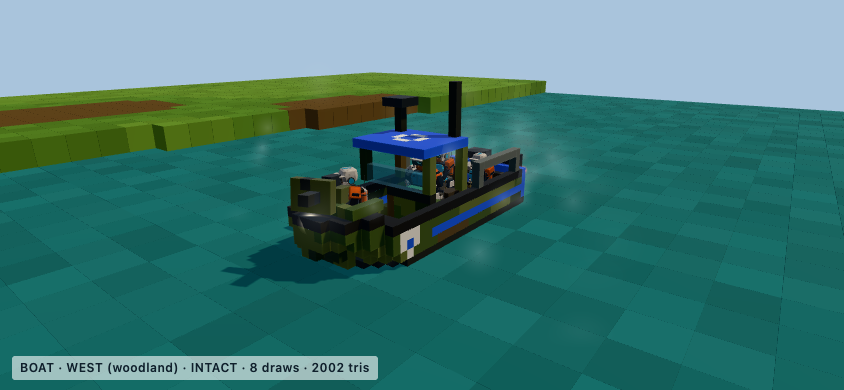
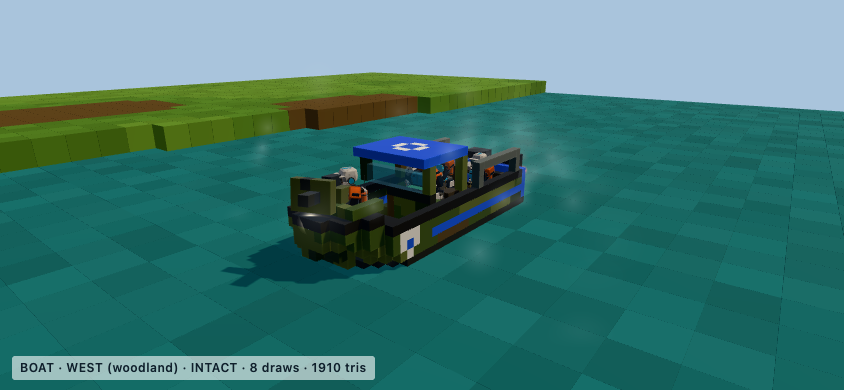
Conquest boat review: unmannable patrol bookings, bridge clearance, narrows
- patrolCrewInReach counted bots booked on a squad ride, which planCrews then
  skips: the boat was booked with nobody to man it and took the jet's slot.
- The boat model's roof (2.6 m) and mast (3.8 m) poked through the Iron
  Bridge deck (2.43 m above a floating hull); the canopy is now lower and
  carries no mast (BOAT_TOP 2.4), and a test checks the lowest deck.
- Bot helmsmen swung U-turns into the piers by the Iron Bridge; in the
  narrows they now pivot, or back onto a close waypoint astern.
- Stuck recoveries carried over between legs, so a long patrol could reach
  MAX_RECOVERIES and abandon the boat mid-river; each leg starts fresh.
- A recalled crew got out 10-12 m from the pad, in the river: moorRadius 7.
- Docs and comments claimed the patrol only uses headroom above the budget;
  it ranks before the jet and can take its budget slot. Tests now cover the
  sortie/rest cycle, the recall, and the cap (only a recall may exceed it).
- Recaptured the boat screenshots (muted CDP).

Changed region(s): [[0.4005, 0.1846, 0.5545, 0.4308], [0.3697, 0.9231, 0.4621, 0.9538]]

diff --git a/server/bot-boat-driving.js b/server/bot-boat-driving.js
@@ -1,9 +1,9 @@
 // River patrol boats for Conquest bots (docs/conquest.md, Patrol boat).
 //
 // The commander books one boat per team as a river patrol (driver and bow
-// gunner) in the headroom between its crew budget and the ceil(bots / 3) cap
-// once the team fields BOAT_PATROL.minTeamBots bots (riverPatrolSlots and
-// BotCommander.planCrews). The driver steers along the map's boat lane
+// gunner, ranked after the attack helicopter and before the jet) when both
+// seats fit under the ceil(bots / 3) crew cap, once the team fields
+// BOAT_PATROL.minTeamBots bots (riverPatrolSlots and BotCommander.planCrews). The driver steers along the map's boat lane
 // (mapMeta.conquest.waterways) to a station beside the river crossing
 // nearest the team's focus flag, holds there bow toward the
 // crossing so the gunner's .50 covers it, and moves to the station on the
@@ -17,8 +17,12 @@ import { vehicleMaxHp } from '../shared/vehicles.js';
 export const BOAT_PATROL = Object.freeze({
   /** A team with fewer bots keeps every bot on land. */
   minTeamBots: 6,
-  /** A recalled boat this close to its mooring is home: the crew gets out (m). */
-  moorRadius: 12,
+  /**
+   * A recalled boat this close to its mooring is home: the crew gets out (m).
+   * Just past the `arrive` radius the helmsman brakes in, so the crew steps
+   * out at the pad (a short jump from the bank), not 10 m out in the river.
+   */
+  moorRadius: 7,
   /** A living bot farther than this from the boat does not walk (or swim) to it. */
   walkMax: 30,
   /** Commander priorities of the boat seats: after the attack helicopter, before the jet. */
@@ -35,6 +39,13 @@ export const BOAT_PATROL = Object.freeze({
   arrive: 6, faceMs: 3500,
   /** Cruise on the open lane, through a narrows (the Iron Bridge arch) and close to the station, m/s. */
   cruise: 15, narrows: 6, approach: 8,
+  /**
+   * In the narrows (a bridge within 20 m) a helmsman whose waypoint lies more
+   * than `pivotError` rad off the bow stops and pivots instead of turning under
+   * way, or backs onto it when it lies astern closer than `narrowsReverse` m
+   * (under the arch there is no room to pivot either).
+   */
+  pivotError: 1.2, narrowsReverse: 16,
   /** Hull share that sends the boat home to its mooring, and the share that sends it back out. */
   retreatHp: 0.35, returnHp: 0.6,
   /**
@@ -135,11 +146,14 @@ export function laneDistance(lane, p) {
  * Commander slots of the river patrol: { slots, recall }. `slots` is the
  * team's live boat already manned by a bot, else the one moored nearest the
  * focus flag: its driver, then its bow gunner, at priorities after the attack
- * helicopter, while the focus flag lies within BOAT_PATROL.focusReach of the lane. The commander books them only in the headroom between the crew
- * budget and the ceil(teamBots / 3) cap, so on Frontier (at most eight bots a
- * side) the boat sails while the tank or the helicopter is down. `recall` is a
- * bot-crewed boat out on the river, for when the patrol is not booked: its
- * crew sails home and gets out at the mooring, never mid-river.
+ * helicopter and before the jet, while the focus flag lies within
+ * BOAT_PATROL.focusReach of the lane. The commander books both seats or
+ * neither, only while they fit under the ceil(teamBots / 3) cap: on Frontier
+ * (at most eight bots a side: budget 2, cap 3) the boat sails while the tank
+ * or the helicopter is down, and then takes the budget slot the jet would get.
+ * `recall` is a bot-crewed boat out on the river, for when the patrol is not
+ * booked: its crew sails home and gets out at the mooring, never mid-river
+ * (the recall may run past the cap while it lasts).
  */
 export function riverPatrolSlots(game, hulls, teamBots, focus, hullSeatIds, isBot) {
   const none = { slots: [], recall: [] };
@@ -161,14 +175,20 @@ export function riverPatrolSlots(game, hulls, teamBots, focus, hullSeatIds, isBo
   return { slots: pick ? crew(pick, false) : [], recall };
 }
 
-/** Lane route state of a boat driver (reused while the target is unchanged). */
+/**
+ * Lane route state of a boat driver (reused while the target is unchanged).
+ * Like a ground hull's route, each leg starts with no stuck recoveries: the
+ * watchdog's MAX_RECOVERIES bail-out (abandon the hull, crew out) is for a
+ * hull boxed in on one leg, not the sum of every scrape over a long patrol,
+ * which would strand the boat mid-river and swim its crew ashore.
+ */
 function routeState(driving, br, v, lane, target, now) {
   const key = `boat:${Math.round(target.x)},${Math.round(target.z)}`;
   let state = driving.drivers.get(br.id);
   if (!state || state.vehicle !== v || state.key !== key) {
     const keep = state?.vehicle === v ? state : null;
     state = { vehicle: v, key, destination: target, points: laneRoute(lane, laneProgress(lane, v), laneProgress(lane, target)).concat([{ ...target }]),
-      index: 0, watchAt: now, watchX: v.x, watchZ: v.z, watchYaw: v.yaw, recoveries: keep?.recoveries ?? 0, reverseUntil: 0,
+      index: 0, watchAt: now, watchX: v.x, watchZ: v.z, watchYaw: v.yaw, recoveries: 0, reverseUntil: 0,
       probeAt: 0, detour: null, patrol: keep?.patrol ?? null };
     driving.drivers.set(br.id, state);
   }
@@ -212,7 +232,7 @@ export function boatPatrol(driving, br, p, v, assignment, now, inp) {
   // Slow through the narrows (the arches of a bridge within 20 m) and on the approach.
   const narrows = (driving.game.mapMeta?.conquest?.crossings ?? []).some(c => c.kind === 'bridge' && flat(c, v) < 20);
   const cruise = narrows ? BOAT_PATROL.narrows : toGo < 30 ? BOAT_PATROL.approach : BOAT_PATROL.cruise;
-  const remaining = driving.follow(br, v, state, now, inp, { arrive: BOAT_PATROL.arrive, cruise });
+  const remaining = driving.follow(br, v, state, now, inp, { arrive: BOAT_PATROL.arrive, cruise, narrows });
   if (remaining < BOAT_PATROL.arrive) {
     if (!patrol.retreat && !patrol.settleAt) {
       patrol.settleAt = now;

diff --git a/server/bot-commander.js b/server/bot-commander.js
@@ -553,9 +553,11 @@ export class BotCommander {
    * (only with >= 6 bots) > a second tank > helicopter gunner > tank commander.
    * The budget is ceil(teamBots / 4), inside the spec's ceil(teamBots / 3)
    * cap, so most of the team stays on foot around the flags. The river patrol
-   * boat (driver and gunner, priority after the helicopter) only sails in the
-   * headroom between the budget and the cap, in sorties of BOAT_PATROL.sortieMs
-   * with BOAT_PATROL.restMs at the mooring between them.
+   * boat (driver and gunner, after the helicopter and before the jet) is booked
+   * with both seats or not at all, only while they fit under the cap: it may
+   * take the crew count one past the budget, and the crews ranked after it get
+   * what budget is left. It sails in sorties of BOAT_PATROL.sortieMs with
+   * BOAT_PATROL.restMs at the mooring between them.
    */
   planCrews(ts, view, now) {
     const team = ts.team, brains = this.teamBrains(team);
@@ -585,7 +587,7 @@ export class BotCommander {
     push(hulls.filter(v => v.type === 'helicopter'), v => hullSeatIds(v).gunner, 4);
     push(hulls.filter(v => v.type === 'tank' || v.type === 'jeep_at'), v => hullSeatIds(v).gunner, 5);
     // The river patrol (server/bot-boat-driving.js): a two-bot boat crew that
-    // sails in the headroom between the budget and the ceil(teamBots / 3) cap.
+    // must fit under the ceil(teamBots / 3) cap (it may run past the budget).
     const cap = Math.ceil(brains.length / 3);
     const patrol = riverPatrolSlots(this.game, hulls, brains.length, this.focusFlag(ts), hullSeatIds, id => this.isBot(id));
     // Sortie duty cycle (BOAT_PATROL.sortieMs / restMs): between sorties the boat rests at its mooring.
@@ -668,15 +670,21 @@ export class BotCommander {
     ts.crewBudget = budget;
   }
 
-  /** Two bots that can man the patrol boat now: already aboard or booked, dead (they deploy aboard) or a short walk away. */
+  /**
+   * Two bots that can man the patrol boat now: already aboard or booked, dead
+   * (they deploy aboard) or a short walk away. A bot booked on a crew, a hitch
+   * or a squad ride is not free: the seat assignment in planCrews skips it too,
+   * so counting it would book an unmannable boat in the jet's place.
+   */
   patrolCrewInReach(ts, brains, v, view) {
     let count = 0;
+    const riding = new Set([...ts.transits.values()].flatMap(t => [...t.seats.keys()].map(String)));
     for (const br of brains) {
       const id = br.id, p = this.game.entities.get(id);
       if (!p) continue;
       const booked = ts.crews.get(String(id));
       if (p.vehicleId === v.id || booked?.vehicleId === v.id) count++;
-      else if (booked || ts.hitches.has(String(id))) continue;
+      else if (booked || ts.hitches.has(String(id)) || riding.has(String(id))) continue;
       else if (p.state !== 'alive' ? !!view.deployOptions : !p.vehicleId && flat(p, v) <= BOAT_PATROL.walkMax) count++;
       if (count >= 2) return true;
     }

diff --git a/public/js/vehicles/models/boat.js b/public/js/vehicles/models/boat.js
@@ -13,6 +13,8 @@ import { blueprint, createKit, buildSeatAnchors, buildMounts, lightAnchor, finis
 /** Outboard motor positions (x) and the transom face (z). */
 export const BOAT_OUTBOARDS = Object.freeze([-0.5, 0.5]);
 export const BOAT_TRANSOM_Z = 3.0;
+/** Highest point of the model above the keel (the canopy roof), m. */
+export const BOAT_TOP = 2.4;
 const BOW_Z = -3.4, FOREDECK_Z = -2.0, FLOOR_TOP = 0.6;
 const round = v => Math.round(v * 5) / 5;
 
@@ -85,24 +87,23 @@ function buildParts() {
   }
   hull.userData.priority = { ammo: 40, jerrycan: 40, rail: 30 };
 
-  // Canopy: windscreen, roof on four posts (its top is the air recognition
-  // panel with a roundel), the radar mast and a whip antenna. From the
-  // driver's first-person seat it folds away (model.firstPersonHidden).
+  // Canopy: windscreen and a low roof on four posts (its top is the air
+  // recognition panel with a roundel). Nothing stands above BOAT_TOP: afloat,
+  // the boat clears the Iron Bridge deck (underside 2.43 m over the hull's
+  // feet), so it carries no mast or whip antenna. From the driver's
+  // first-person seat the canopy folds away (model.firstPersonHidden).
   const canopy = new VoxelPart('boat-canopy');
   canopy.box([-1.0, 1.6, -1.0], [-0.8, 2.0, -0.8], 'paint', { tag: 'windscreen' });
   canopy.box([0.8, 1.6, -1.0], [1.0, 2.0, -0.8], 'paint', { tag: 'windscreen' });
   canopy.box([-0.8, 1.6, -1.0], [0.8, 2.0, -0.8], 'glass', { tag: 'windscreen' });
   for (const x of [-1.0, 0.8]) {
-    canopy.box([x, 2.0, -1.0], [x + 0.2, 2.4, -0.8], 'paint', { tag: 'roof' });
-    canopy.box([x, 1.4, 0.2], [x + 0.2, 2.4, 0.4], 'paint', { tag: 'roof' });
+    canopy.box([x, 2.0, -1.0], [x + 0.2, 2.2, -0.8], 'paint', { tag: 'roof' });
+    canopy.box([x, 1.4, 0.2], [x + 0.2, 2.2, 0.4], 'paint', { tag: 'roof' });
   }
-  canopy.box([-1.0, 2.4, -1.2], [1.0, 2.6, 0.4], 'panel', { tag: 'roof' });
-  canopy.skin([-1.0, 2.4, -1.2], [1.0, 2.6, 0.4], 'recog', { normal: [0, 1, 0], where: m => m === 'panel' });
-  canopy.roundel([0, 2.6, -0.4], 0.4, [0, 1, 0], { depth: 0.2 });
-  canopy.box([0.6, 2.6, 0.0], [0.8, 3.2, 0.2], 'dark', { tag: 'mast' });
-  canopy.box([0.4, 3.2, -0.2], [1.0, 3.4, 0.4], 'gunmetal', { tag: 'mast' });
-  canopy.box([-0.8, 2.6, 0.2], [-0.6, 3.8, 0.4], 'dark', { tag: 'antenna' });
-  canopy.userData.priority = { roof: 70, windscreen: 75, mast: 50, antenna: 20 };
+  canopy.box([-1.0, 2.2, -1.2], [1.0, BOAT_TOP, 0.4], 'panel', { tag: 'roof' });
+  canopy.skin([-1.0, 2.2, -1.2], [1.0, BOAT_TOP, 0.4], 'recog', { normal: [0, 1, 0], where: m => m === 'panel' });
+  canopy.roundel([0, BOAT_TOP, -0.4], 0.4, [0, 1, 0], { depth: 0.2 });
+  canopy.userData.priority = { roof: 70, windscreen: 75 };
 
   // Wheel on the console (spins with the steer input).
   const steering = new VoxelPart('boat-steering', { pivot: [round(dx), 1.5, -0.6] });

diff --git a/server/bot-vehicle-driving.js b/server/bot-vehicle-driving.js
@@ -27,7 +27,7 @@ import { mountSystem, seatWeapons } from './bot-vehicle-combat.js';
 import { kitOfPlayer } from './bot-commander.js';
 import { isCombinedArms } from '../shared/modes.js';
 import { navigationWaypoint } from './bot-navigation.js';
-import { boatPatrol } from './bot-boat-driving.js';
+import { BOAT_PATROL, boatPatrol } from './bot-boat-driving.js';
 
 const distance = (a, b) => Math.hypot(a.x - b.x, a.z - b.z);
 const wrap = a => Math.atan2(Math.sin(a), Math.cos(a));
@@ -384,7 +384,7 @@ export class ConquestVehicleDriving {
   }
 
   /** Drive along a route; returns the remaining distance to its end. */
-  follow(br, v, state, now, inp, { arrive = 6, cruise = null } = {}) {
+  follow(br, v, state, now, inp, { arrive = 6, cruise = null, narrows = false } = {}) {
     inp.vehicleThrottle = 0; inp.vehicleSteer = 0; inp.vehicleBrake = 1;
     const goal = state.points.at(-1);
     if (!goal) return 0;
@@ -427,8 +427,11 @@ export class ConquestVehicleDriving {
     const error = wrap(desiredYaw - v.yaw), d = distance(v, target);
     const next = state.detour ? (state.detour[1] ?? state.points[state.index]) : state.points[state.index + 1];
     const corner = next ? Math.abs(wrap(bearing(target, next) - desiredYaw)) : 0;
-    // Tanks and boats pivot onto a waypoint behind them; wheeled hulls back up to it.
-    const reverse = v.type !== 'tank' && v.type !== 'boat' && Math.abs(error) > 1.9 && d < 42;
+    // Tanks pivot onto a waypoint behind them; wheeled hulls back up to it. A
+    // boat turns under way on open water; in the narrows of a bridge it backs
+    // straight onto a close waypoint astern, or stops and pivots (below).
+    const reverse = v.type === 'boat' ? narrows && Math.abs(error) > 2 && d < BOAT_PATROL.narrowsReverse
+      : v.type !== 'tank' && Math.abs(error) > 1.9 && d < 42;
     const steeringError = reverse ? wrap(error + Math.PI) : error;
     const rules = VEHICLE_RULES[v.type];
     inp.vehicleSteer = clamp(-steeringError * (v.type === 'tank' ? 2 : 2.5) * (reverse ? -1 : 1), -1, 1);
@@ -436,6 +439,9 @@ export class ConquestVehicleDriving {
     if (Math.abs(steeringError) > 0.35) speed = Math.min(speed, v.type === 'tank' ? 5 : 6);
     if (corner > 0.4 && d < 24) speed = Math.min(speed, 5 + d * 0.2);
     if (v.type === 'tank' && Math.abs(error) > 0.6) speed = 0;
+    // A boat turning back in the narrows stops and pivots on its waterjet: a
+    // U-turn under way swings 6 m wide, into a pier or the bank by the arch.
+    if (v.type === 'boat' && narrows && !reverse && Math.abs(error) > BOAT_PATROL.pivotError) speed = 0;
     if (remaining < 40) speed = Math.min(speed, Math.max(3, remaining * 0.35));
     inp.vehicleBrake = Math.abs(v.speed) > speed + 1 ? 0.8 : 0;
     inp.vehicleThrottle = reverse ? -0.8 : speed / rules.speed;

diff --git a/docs/conquest.md b/docs/conquest.md
@@ -193,8 +193,8 @@ Like the RX-8: a jeep dies to one hit, a helicopter to three (air ×0.8), a tank
 - **Crashes.** A bank, pier or island hit head-on above max(8, 0.55 × 20) = 11 m/s costs up to a quarter of the hull at top speed (`WALL_CRASH_RULES.boat`: 25 %, a 25 % rebound). The boat pays at most once per second (`crashSeconds`), so a hull glancing back into the same bank pays once. Hull-on-hull crashes, runover and ram credit work as for ground hulls.
 - **Damage.** It has light armour like the jeep: the .50 bites in full, rifles only scratch it. A wreck doesn't burn on the surface. It sinks at 0.7 m/s, stern first and listing, settles on the river bed and respawns at its pad 20 s after it was lost.
 - **Crew exits.** Every seat is exposed. At a bank or a ford the ordinary exit search puts the crew ashore. In open water they drop in beside the hull at their seat's side (then the other side, the bow, the stern), feet 1.2 m under the surface (`boatSwimExit`), and swim.
-- **Bots** (`server/bot-boat-driving.js`, numbers in `BOAT_PATROL`). Boats are crewed only when a team has at least 6 bots and its focus flag lies within 80 m of the boat lane (`focusReach`: on Frontier only the Iron Bridge; B and D are 107 m off, A and E 145 m), and only in the headroom between the commander's crew budget (a quarter of the team's bots) and its cap (a third). A boat is crewed only when both the helmsman and the bow gunner (priorities 1.5 and 1.6) fit, with two bots in reach (aboard, already booked, dead and about to deploy aboard, or within 30 m). A team runs at most one boat crew: the boat a bot already sails, else the one moored nearest the focus flag. The helmsman follows the boat lane (`waterways`), slows to 6 m/s under the Iron Bridge arch and to 8 m/s on the approach, and holds a station 32 m up or down the lane from the crossing nearest the focus flag. The station lies outside the flag zone with the bow toward the crossing, and the helmsman moves between the two stations every 8–14 s. Below 35 % hp it runs back to its mooring until it is back over 60 %. A patrol is a sortie: after 70 s the boat rests at its mooring for 50 s (`sortieMs`, `restMs`) and the crew goes back to the flags on foot. When the commander no longer picks the boat (the sortie ended, the headroom closed or the focus moved off the river), the crew is recalled to the mooring first instead of bailing into the river. Boats never reverse toward a waypoint behind them. The bow gunner fights with the ordinary mounted combat; target choice treats a boat as a light hull with threat 1.5.
-- **Client.** `makeBoatModel` (`public/js/vehicles/models/boat.js`) has outboards that swivel with the steer, a turning helm wheel and a canopy that is hidden in first person. `VehicleView` uses the published attitude plus the swell and skips the ground fit and wreck tilt for boats. `VehicleFx` throws a wake behind the hull above 1.2 m/s and bow spray above 8 m/s (`_boatWake`). The helm camera looks along the hull. The HUD labels the boat PATROL BOAT.
+- **Bots** (`server/bot-boat-driving.js`, numbers in `BOAT_PATROL`). Boats are crewed only when a team has at least 6 bots and its focus flag lies within 80 m of the boat lane (`focusReach`: on Frontier only the Iron Bridge; B and D are 107 m off, A and E 145 m). In the commander's crew list the helmsman and the bow gunner rank 1.5 and 1.6, after the attack helicopter and before the jet. A boat is crewed only when both seats fit under the crew cap (a third of the team's bots), with two bots in reach (aboard, already booked, dead and about to deploy aboard, or within 30 m). A booked boat can take the crew count one past the budget (a quarter of the team's bots), and the hulls ranked after it get what budget is left: with eight bots (budget 2, cap 3) the boat sails while the tank or the helicopter is down, in the jet's place. A team runs at most one boat crew: the boat a bot already sails, else the one moored nearest the focus flag. The helmsman follows the boat lane (`waterways`), slows to 6 m/s under the Iron Bridge arch and to 8 m/s on the approach, and holds a station 32 m up or down the lane from the crossing nearest the focus flag. The station lies outside the flag zone with the bow toward the crossing, and the helmsman moves between the two stations every 8–14 s. Below 35 % hp it runs back to its mooring until it is back over 60 %. A patrol is a sortie: after 70 s the boat rests at its mooring for 50 s (`sortieMs`, `restMs`) and the crew goes back to the flags on foot. When the commander no longer picks the boat (the sortie ended, the cap filled up or the focus moved off the river), the crew is recalled: it sails home and gets out within 7 m of the pad (`moorRadius`) instead of bailing into the river. A recall can run past the cap until the boat is home. In the Iron Bridge narrows (a bridge within 20 m), a helmsman whose next waypoint lies more than 1.2 rad off the bow stops and pivots on the waterjet (`pivotError`) instead of swinging a U-turn into a pier, and backs onto a waypoint astern within 16 m (`narrowsReverse`); on open water it turns under way. Each leg starts with a fresh stuck watchdog, so only a boat boxed in on one leg is given up. The bow gunner fights with the ordinary mounted combat; target choice treats a boat as a light hull with threat 1.5.
+- **Client.** `makeBoatModel` (`public/js/vehicles/models/boat.js`) has outboards that swivel with the steer, a turning helm wheel and a canopy that is hidden in first person. The canopy roof is the model's highest point (`BOAT_TOP`, 2.4 m over the keel) and there is no mast, so a boat afloat passes under the Iron Bridge deck (underside at y 24, 2.43 m over a moored hull's feet) without poking through it. `VehicleView` uses the published attitude plus the swell and skips the ground fit and wreck tilt for boats. `VehicleFx` throws a wake behind the hull above 1.2 m/s and bow spray above 8 m/s (`_boatWake`). The helm camera looks along the hull. The HUD labels the boat PATROL BOAT.
 - **Audio.** There is no boat bank yet: the boat reuses the jeep's engine loops (idle and drive, mixed lower and a little higher pitched) and its hatch and destruction groups, the jeep's wade loop near the river, and the light hull-hit group. A dedicated outboard and hull-slap bank is still open (no new ElevenLabs generation).
 
 **Locks and countermeasures.**
@@ -461,7 +461,7 @@ Node suites (no browser):
 - `node tools/conquest-bot-hitch-test.mjs` covers bots riding with humans: a human-driven jeep, tank and transport get their gunner seats filled, riders stay aboard while the human drives, get out when the human leaves or at a wanted flag, no bot ever holds a human's seat, and a bot holding a threatened flag stays.
 - `node tools/conquest-guided-missile-test.mjs` (in `conquest:test`) covers the sight-guided missiles: the contract (version 5, `atgm` and `pintle` mounts, `jeep_at` as a jeep hull variant), a helicopter gunner who selects GUIDED MSL and steers it onto a tank 35° off the nose by swinging the chin sight after launch (`at`-class hit credited to the gunner), guidance ending when the gunner leaves so the missile flies on past, flares that do not decoy it, and the AT jeep's TOW (a tank hit, a jeep killed by one, the 3-round box and its reload).
 - `node tools/conquest-jet-bomb-test.mjs` (in `conquest:test`) covers the jet stores: the v5 contract (separate `rails` and `bombs` mounts, no store mount left), cannon, missiles and bombs picked in the air with separate ammo and re-arm (bombs 10 s, missiles 15 s), the airborne-only release on the predicted impact, the 13 m blast (infantry at 4/8/11 m, jeeps at 3.6 and 12 m, a tank at 7 m), the crater, the burning field (cells on the crater floor and rim, pilot credit with `jetBomb`, a burn kill in about 4 s, no team damage, a jeep's 9/s and no tank damage, out after 8 s) and the AT deck hit.
-- `node tools/conquest-boat-test.mjs` (in `conquest:test`) covers the patrol boat on the real Frontier river. It checks the v6 contract and topology, the waterjet handling (top speed, the hump before the plane, a pivot at rest, a slide in a turn, no thrust when beached, a creep when aground, the clamped attitude and swell), the four pads floating at 21.57 and the unchanging level rows of moored boats. It drives a run down the lane under the Iron Bridge arch without touching a bank, circles into the banks without ever climbing onto land, and makes a full-speed bank strike (at most 25 %, once per second). It checks a passenger's mid-river exit 1.2 m under the surface, the wreck sinking stern first to the bed and the 20 s respawn, light armour, and deploying onto the bow gun. For the bots it checks the lane, the stations off the Iron Bridge and outside its zone, the commander's patrol slots (none for a flag out of the bow gun's reach of the river) and recall, and a live crew that sails to its station and kills a rifleman on the bank with the bow .50.
+- `node tools/conquest-boat-test.mjs` (in `conquest:test`) covers the patrol boat on the real Frontier river. It checks the v6 contract and topology, the waterjet handling (top speed, the hump before the plane, a pivot at rest, a slide in a turn, no thrust when beached, a creep when aground, the clamped attitude and swell), the four pads floating at 21.57 and the unchanging level rows of moored boats. It drives a run down the lane under the Iron Bridge arch without touching a bank, circles into the banks without ever climbing onto land, and makes a full-speed bank strike (at most 25 %, once per second). It checks a passenger's mid-river exit 1.2 m under the surface, the wreck sinking stern first to the bed and the 20 s respawn, light armour, and deploying onto the bow gun. For the bots it checks the lane, the stations off the Iron Bridge and outside its zone, the commander's patrol slots (none for a flag out of the bow gun's reach of the river) and recall, and a live crew that sails to its station and kills a rifleman on the bank with the bow .50. It also checks that the model clears the lowest bridge deck over the lane.
 - `node tools/conquest-vehicle-hijack-test.mjs` covers hijacking for every hull type: a crewed enemy hull is refused, an empty one changes team with the `vehicle_hijacked` event, old spots lapse, the old team is locked out, the HQ pad keeps its home team, titans are never hijackable, and the HIJACK prompt and banners.
 - `node tools/conquest-vehicle-ram-test.mjs` covers shoving wrecks (tank pushes a jeep wreck, a jeep only nudges one and can't move a tank wreck, a pushed wreck stops at a wall and sleeps again) and ramming (fence, plank wall, plaster at speed, corrugated steel and cobble walls for the tank, the per-tick cap, speed loss and damage, stone, concrete and brick for the jeep, flag guard), and a tank's top-speed crash into stone (at most 10 % hull lost, a rebound).
 - `node tools/conquest-bot-wait-test.mjs` covers bot drivers waiting for humans: a bot-driven jeep squad ride, tank crew, transport squad ride and attack helicopter hold while a human runs to them and leave after the human boards; no wait for a human walking away or standing 28 m off; the 8 s timeout (12 s for a squad mate) and the 30 s cooldown; a ride already well on its way drives on; an airborne helicopter never waits.
